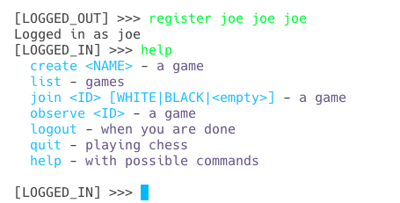
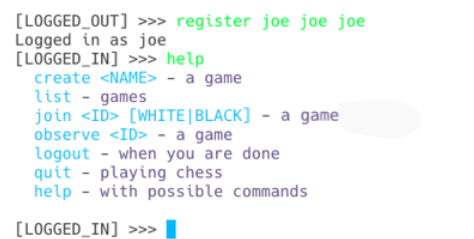
Update language in Phase 5 specs

diff --git a/chess/5-pregame/pregame.md b/chess/5-pregame/pregame.md
@@ -4,7 +4,7 @@
 - [Getting Started](getting-started.md)
 - [Starter Code](starter-code)
 
-In this part of the Chess Project, you will create an initial version of your Chess client. Your Chess client will be a terminal-based (i.e., console-based) program that gives the user a simple interface for playing Chess. Your client should implement all user interactions that occur outside of actually playing a game. Game play interactions will be implemented in the next phase. This includes allowing the user to display help text, register, login, list existing games, create a new game, join a game, observe a game, logout, and exit. You will also write the client code that draws the chessboard.
+In this part of the Chess Project, you will create an initial version of your Chess client. Your Chess client will be a terminal-based (i.e., console-based) program that gives the user a simple interface for playing Chess. Your client should implement all user interactions that occur outside of actually playing a game. Game play interactions will be implemented in the next phase. This includes allowing the user to display help text, register, login, list existing games, create a new game, play a game, observe a game, logout, and exit. You will also write the client code that draws the chessboard.
 
 To implement this, you will create a ServerFacade class to handle sending and recieving HTTP requests to and from your server. Your client code will then use your ServerFacade methods to make server API calls.
 
@@ -29,14 +29,14 @@ When the user first opens your Chess client application they can execute any of 
 
 After the user has registered or logged in they can then execute any of the Postlogin commands.
 
-| Command           | Description                                                                                                                                                                                                                                                                                                                          |
-| ----------------- | ------------------------------------------------------------------------------------------------------------------------------------------------------------------------------------------------------------------------------------------------------------------------------------------------------------------------------------ |
-| **Help**          | Displays text informing the user what actions they can take.                                                                                                                                                                                                                                                                         |
-| **Logout**        | Logs out the user. Calls the server logout API to logout the user. After logging out with the server, the client should transition to the Prelogin UI.                                                                                                                                                                               |
-| **Create Game**   | Allows the user to input a name for the new game. Calls the server create API to create the game. This does not join the player to the created game; it only creates the new game in the server.                                                                                                                                     |
-| **List Games**    | Lists all the games that currently exist on the server. Calls the server list API to get all the game data, and displays the games in a numbered list, including the game name and players (not observers) in the game. The numbering for the list should be independent of the game IDs.                                            |
-| **Join Game**     | Allows the user to specify which game they want to join and what color they want to play. They should be able to enter the number of the desired game. Your client will need to keep track of which number corresponds to which game from the last time it listed the games. Calls the server join API to join the user to the game. |
-| **Join Observer** | Allows the user to specify which game they want to observe. They should be able to enter the number of the desired game. Your client will need to keep track of which number corresponds to which game from the last time it listed the games. Calls the server join API to verify that the specified game exists.                   |
+| Command          | Description                                                                                                                                                                                                                                                                                                                          |
+|------------------|--------------------------------------------------------------------------------------------------------------------------------------------------------------------------------------------------------------------------------------------------------------------------------------------------------------------------------------|
+| **Help**         | Displays text informing the user what actions they can take.                                                                                                                                                                                                                                                                         |
+| **Logout**       | Logs out the user. Calls the server logout API to logout the user. After logging out with the server, the client should transition to the Prelogin UI.                                                                                                                                                                               |
+| **Create Game**  | Allows the user to input a name for the new game. Calls the server create API to create the game. This does not join the player to the created game; it only creates the new game in the server.                                                                                                                                     |
+| **List Games**   | Lists all the games that currently exist on the server. Calls the server list API to get all the game data, and displays the games in a numbered list, including the game name and players (not observers) in the game. The numbering for the list should be independent of the game IDs.                                            |
+| **Play Game**    | Allows the user to specify which game they want to join and what color they want to play. They should be able to enter the number of the desired game. Your client will need to keep track of which number corresponds to which game from the last time it listed the games. Calls the server join API to join the user to the game. |
+| **Observe Game** | Allows the user to specify which game they want to observe. They should be able to enter the number of the desired game. Your client will need to keep track of which number corresponds to which game from the last time it listed the games. Functionality will be added in Phase 6.                                               |
 
 #### Example Postlogin UI
 
@@ -44,7 +44,7 @@ After the user has registered or logged in they can then execute any of the Post
 
 ### Gameplay UI
 
-As stated previously, gameplay will not be implemented until later. For now, when a user joins or observes a game, the client should draw the initial state of a Chess game in the terminal, but not actually enter gameplay mode. The chessboard should be drawn twice, once in each orientation (i.e., once with white pieces at the bottom and once with black pieces at the bottom).
+As stated previously, gameplay will not be implemented until later. For now, when a user plays or observes a game, the client should draw the initial state of a Chess game in the terminal, but not actually enter gameplay mode. The chessboard should be drawn twice, once in each orientation (i.e., once with white pieces at the bottom and once with black pieces at the bottom).
 
 An example of what the chessboard might look like is given below.You are free to make your chessboard look different as long as the essential information is displayed in an easily readable way, but it must "look like a chess board." You must have different colors for alternating squares, but they don't have to be white and black. Light and dark, or white and brown, or whatever you'd like is fine. Per official chess rules, the bottom-right and top-left squares (h1 and a8) must be the "lighter" color. This will mean each queen is "on her color" (white queen on a light square, black queen on a dark square). In addition, you must show the correct row numbers and column letters, but can do so however you would like.
 
